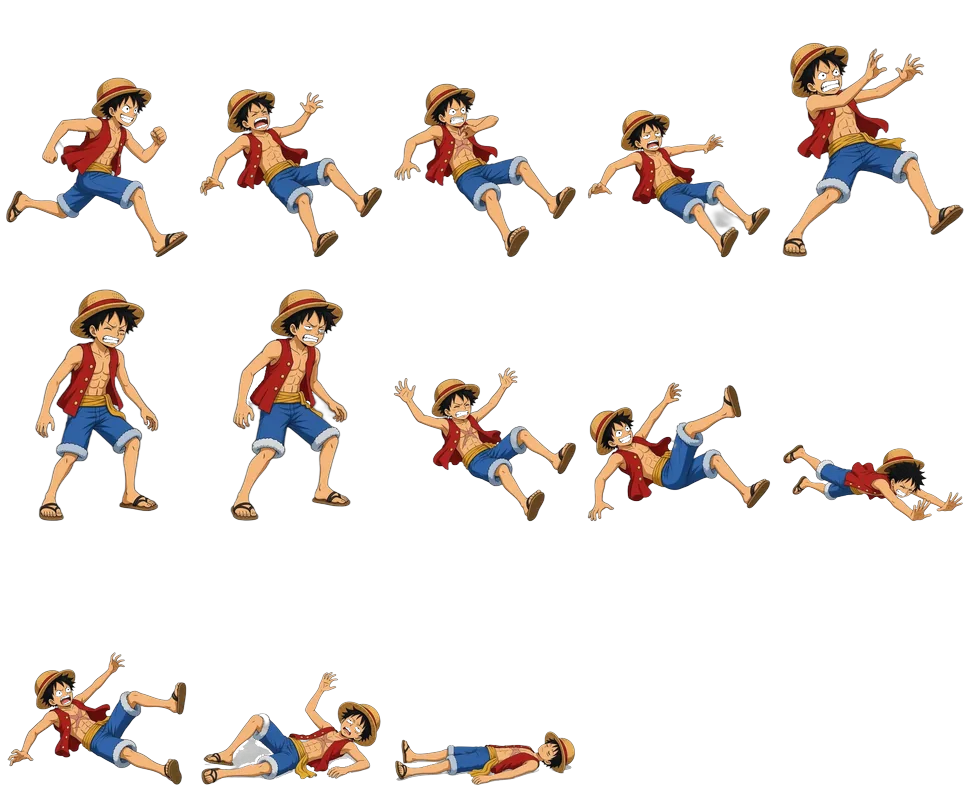
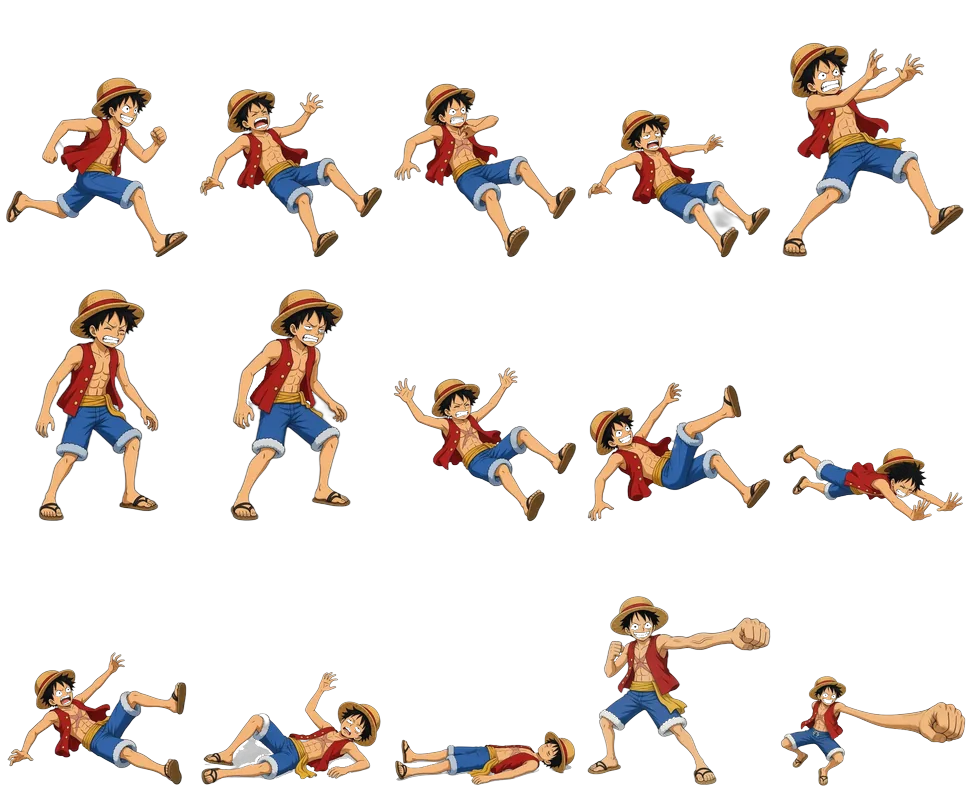
pages30u: 路飞技能帧接入
装 attack×6 / skill_gatling×6 / skill_pistol×6 / skill_balloon×6；
重建 luffy atlas（4 张）；drawLuffy 播 l_atk/l_gatling/l_pistol/l_balloon。
二档/金刚枪仍 idle 桩，等 batch 3。

Changed region(s): [[0.5876, 0.7576, 0.8041, 1.0], [0.8041, 0.8485, 1.0, 1.0], [0.7113, 0.9394, 0.7423, 1.0]]

diff --git a/game.js b/game.js
@@ -70,7 +70,7 @@
   var charHover = -1;
   // pages23: spritesheet loader. Each kit is 1–3 webp atlases (~5 total) plus ~15
   // core images. fetch+blob decode; match load exclusive; 20s stall → retry UI.
-  var ASSET_V = "pages30t";
+  var ASSET_V = "pages30u";
   var ASSET_GROUPS = { core: [], obito: [], pain: [], tanjiro: [], gojo: [], luffy: [] };
   var assetErrors = [];
   var LOAD_CONCURRENCY = 8;
@@ -409,6 +409,7 @@
       bindArr(gojo.infinity); bindArr(gojo.infinityLoop); bindArr(gojo.domain);
     } else if (kitId === "luffy") {
       bindArr(luffy.idle); bindArr(luffy.run); bindArr(luffy.hitstun); bindArr(luffy.knock);
+      bindArr(luffy.atk); bindArr(luffy.gatling); bindArr(luffy.pistol); bindArr(luffy.balloon);
     }
   }
   function registerKitSheets(kitId) {
@@ -671,12 +672,16 @@
   var gojoBodyW = 145 * gojoScale;
   var gojoBodyH = 390 * gojoScale;
 
-  // pages30t: 路飞基础帧 idle/run/hitstun/knock；技能帧后补，先桩
+  // pages30u: 路飞 +技能帧 attack/gatling/pistol/balloon；二档/金刚枪仍桩
   var luffy = {
     idle: loadNumbered("luffy/idle", 8),
     run: loadNumbered("luffy/run", 8),
     hitstun: loadNumbered("luffy/hitstun", 6),
-    knock: loadNumbered("luffy/knockdown", 6)
+    knock: loadNumbered("luffy/knockdown", 6),
+    atk: loadNumbered("luffy/attack", 6),
+    gatling: loadNumbered("luffy/skill_gatling", 6),
+    pistol: loadNumbered("luffy/skill_pistol", 6),
+    balloon: loadNumbered("luffy/skill_balloon", 6)
   };
   // canvas 320×436；面朝右 → nativeDir +1
   var luffyFootPad = 8;
@@ -2390,7 +2395,7 @@
     rings.push({ x: f.x, y: f.y - 40, life: 0.8, max: 0.8, color: "rgba(160,80,255,0.7)", r0: 40, r1: 350 });
   }
 
-  // pages30t: 路飞技能桩（专属帧未到前用 idle + 简易效果）
+  // pages30u: 路飞技能 — atk/gatling/pistol/balloon 有专属帧；gear2/spear 仍桩
   function castLuffyAtk(f) {
     f.anim = "l_atk";
     f.animT = 0;
@@ -4976,8 +4981,28 @@
     } else if (reacting) {
       set = luffy.idle;
       idx = 0;
+    } else if (f.anim === "l_atk" && luffy.atk && luffy.atk[0] && luffy.atk[0].complete) {
+      set = luffy.atk;
+      var ua = f.animDur > 0 ? f.animT / f.animDur : 1;
+      if (ua < 0) ua = 0; if (ua > 0.999) ua = 0.999;
+      idx = Math.min(5, Math.floor(ua * 6));
+    } else if (f.anim === "l_gatling" && luffy.gatling && luffy.gatling[0] && luffy.gatling[0].complete) {
+      set = luffy.gatling;
+      var ug = f.animDur > 0 ? f.animT / f.animDur : 1;
+      if (ug < 0) ug = 0; if (ug > 0.999) ug = 0.999;
+      idx = Math.min(5, Math.floor(ug * 6));
+    } else if (f.anim === "l_pistol" && luffy.pistol && luffy.pistol[0] && luffy.pistol[0].complete) {
+      set = luffy.pistol;
+      var up = f.animDur > 0 ? f.animT / f.animDur : 1;
+      if (up < 0) up = 0; if (up > 0.999) up = 0.999;
+      idx = Math.min(5, Math.floor(up * 6));
+    } else if (f.anim === "l_balloon" && luffy.balloon && luffy.balloon[0] && luffy.balloon[0].complete) {
+      set = luffy.balloon;
+      var ub = f.animDur > 0 ? f.animT / f.animDur : 1;
+      if (ub < 0) ub = 0; if (ub > 0.999) ub = 0.999;
+      idx = Math.min(5, Math.floor(ub * 6));
     } else if (f.anim && f.anim.indexOf("l_") === 0) {
-      // 技能帧未到：idle 顶技能动作
+      // pages30u: gear2/spear 等尚无专属帧，idle 顶位
       set = luffy.idle;
       idx = Math.min(7, Math.floor(((f.animT || 0) / Math.max(0.01, f.animDur || 0.4)) * 8));
     } else if (f.gait === "run" || f.gait === "walk") {

diff --git a/index.html b/index.html
@@ -51,7 +51,7 @@
 (function(){var t0=Date.now(),el=document.getElementById("bootT");var iv=setInterval(function(){if(!document.getElementById("boot")){clearInterval(iv);return;}el.textContent=Math.round((Date.now()-t0)/1000)+"s";},500);
 window.addEventListener("error",function(e){var m=document.getElementById("bootMsg");if(m&&e&&e.target&&e.target.src)m.textContent="脚本加载失败，正在重试…";},true);})();
 </script>
-<script src="game.js?v=pages30t" onerror="(function(s){var n=document.createElement('script');n.src='game.js?v=pages30t&r='+Date.now();document.body.appendChild(n);})(this)"></script>
+<script src="game.js?v=pages30u" onerror="(function(s){var n=document.createElement('script');n.src='game.js?v=pages30u&r='+Date.now();document.body.appendChild(n);})(this)"></script>
 
 <script>
 (function(){var last=0;

diff --git a/luffy/README.md b/luffy/README.md
@@ -1,24 +1,18 @@
-# luffy（路飞）基础帧 — batch 1
+# luffy（路飞）— batch 1+2
 
 ## 画布与朝向
 - 画布：`320×436` RGBA（每帧 PNG + WEBP）
 - 脚底基线：约 `y = 427`（距底约 9px）
-- 默认朝向：**面朝右**
-- 头身：跟 idle 对齐
+- 面朝右 → nativeDir +1
 
-## 目录
-| 目录 | 帧数 | 含义 |
-|------|------|------|
-| `idle/` | 01–08 | 站立呼吸微动 |
-| `run/` | 01–08 | 跑步循环 |
-| `hitstun/` | 01–06 | 受击后仰踉跄 |
-| `knockdown/` | 01–06 | 倒地（倾倒→躺平） |
+## Batch 1 基础
+- idle×8 · run×8 · hitstun×6 · knockdown×6
 
-## 预览
-- `/workspace/char/luffy/preview_base_sheet.jpg` — 上行 idle×8，下行 run×8
-- `/workspace/char/luffy/preview_hitstun.jpg`
-- `/workspace/char/luffy/preview_knock.jpg`
+## Batch 2 技能（pages30u）
+- attack×6 橡胶拳
+- skill_gatling×6 机关枪
+- skill_pistol×6 橡胶枪
+- skill_balloon×6 气球
 
-## 制作备注
-- GenerateImage + idle 参考；统一 rembg → 去近白边缘 → 缩放入 320×436、脚底对齐
-- 技能帧与二档（gear2）不在本批
+## 待补
+- 二档 / 金刚枪（batch 3）
